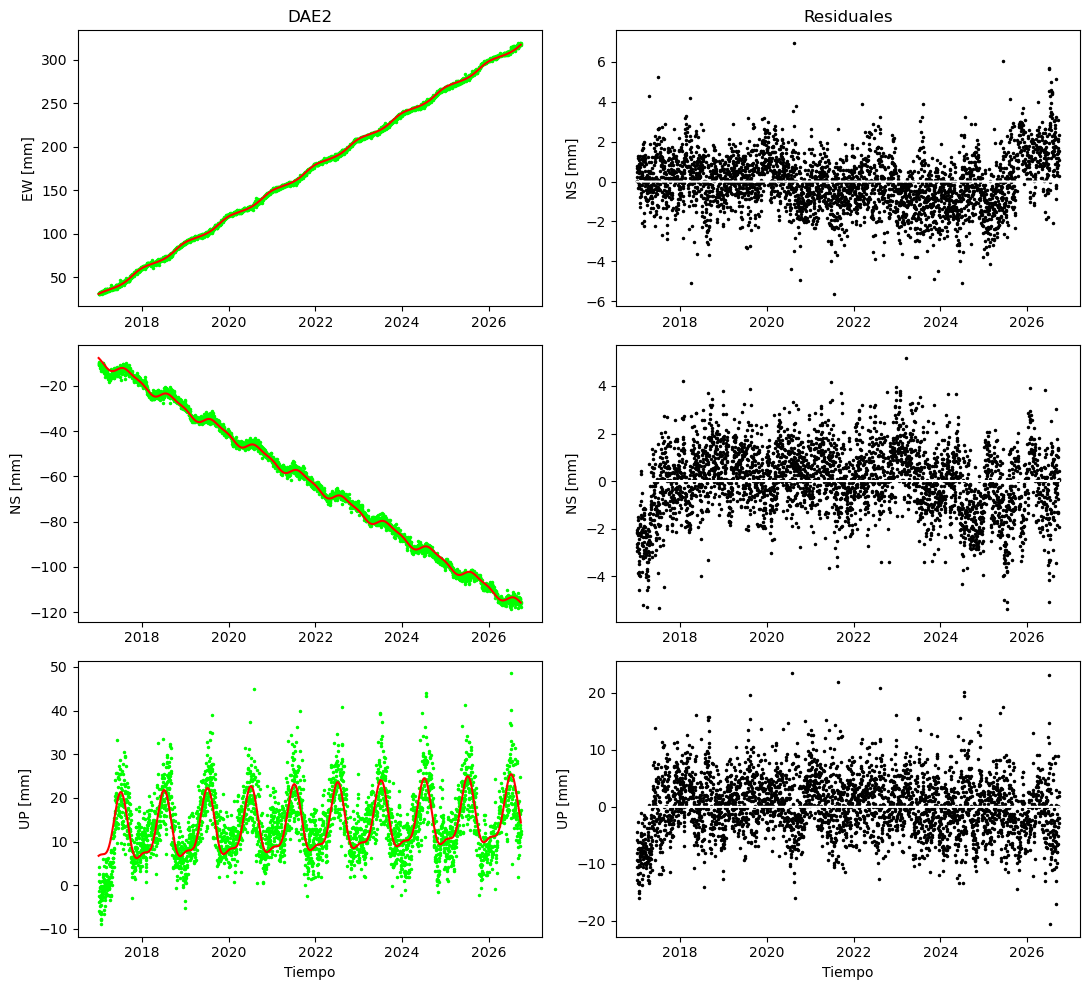
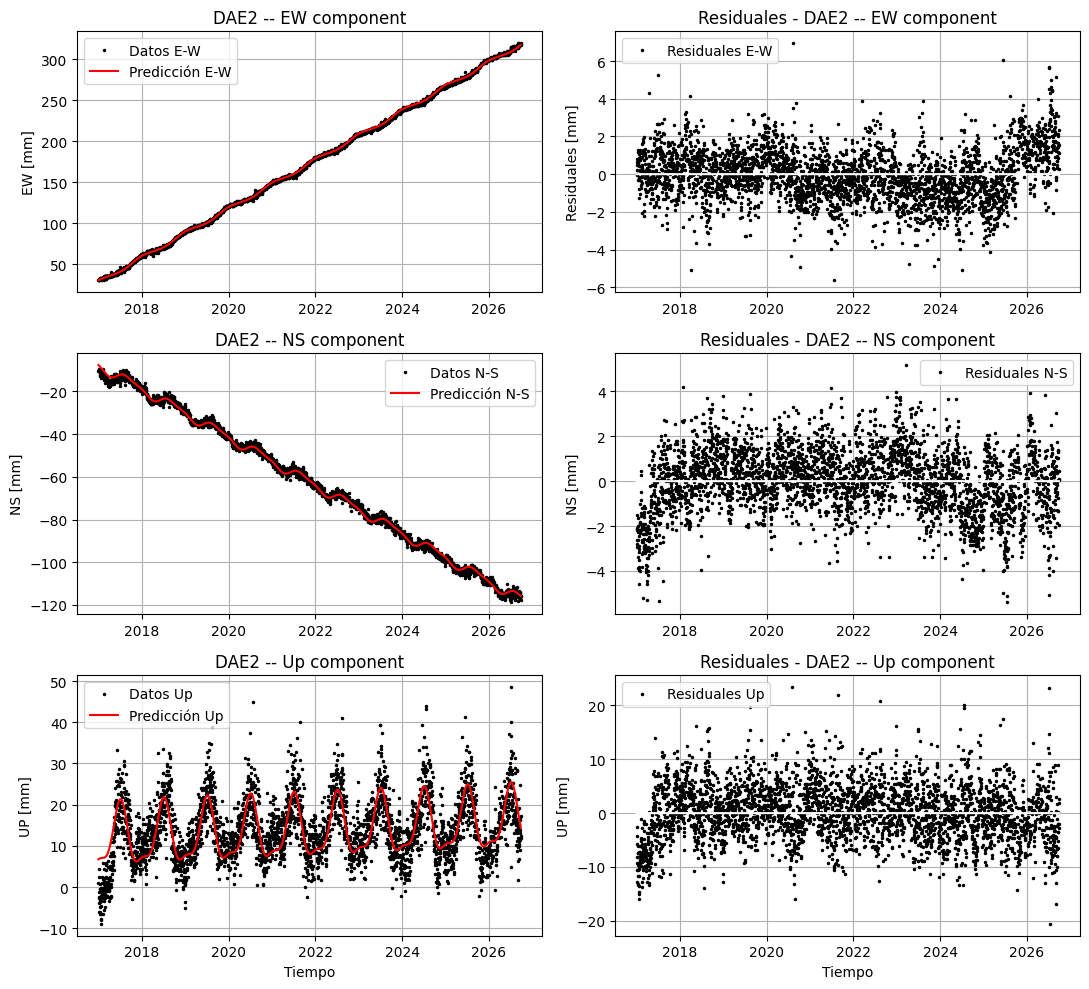
19/11/26

diff --git a/Trajectory_ayudantia.py b/Trajectory_ayudantia.py
@@ -17,7 +17,7 @@ import pickle
 import os
 from directo import directo as dr
 
-do_euler = True # Aplicar ajuste de euler (true o false)
+do_euler = False # Aplicar ajuste de euler (true o false)
 do_itrf = False # Guardar velocidades ITRF (true o false)
 
 #parametros polo de euler:
@@ -209,7 +209,7 @@ def Trajectory(ts_file, t_eq = None ,tau = None, t_at = False , new_at = False, 
     wrms_u = np.sqrt(sum((Pup - up)**2 / sigm_up**2 ) / sum(1/ sigm_up**2))
 
 # Inicializar vearibles lon y lat con None
-    carpeta = "pulled_data_terremoto_noto_2024_japon"
+    carpeta = "pulled_data_zona_estable_AM"
     ruta = f"{carpeta}/id_coords.txt"
     coords = read_coords(ruta)
     lon = None

diff --git a/example.py b/example.py
@@ -15,7 +15,7 @@ import pylab as pl
 # estaión que quiero correr
 #sta = 'BN05.txt'
 
-carpeta = "pulled_data_terremoto_noto_2024_japon"
+carpeta = "pulled_data_zona_estable_AM"
 ruta = f"{carpeta}/id_coords.txt"
 
 matriz = np.loadtxt(ruta, dtype=str)
@@ -29,7 +29,7 @@ param = {}
 for codigo in ID:
     # Le indicamos a Python que el archivo está adentro de la subcarpeta
     sta = f"{carpeta}/{codigo}.txt"
-    param[codigo] = tj(sta, t_eq=t_eq, t_at=False, Do_plot=False, new_at=False, tau=15, t_cut=2017)
+    param[codigo] = tj(sta, t_eq=False, t_at=False, Do_plot=True, new_at=False, tau=None, t_cut=2017)
 
 # Mover largo de ruptura en el mata_noto.png
 
